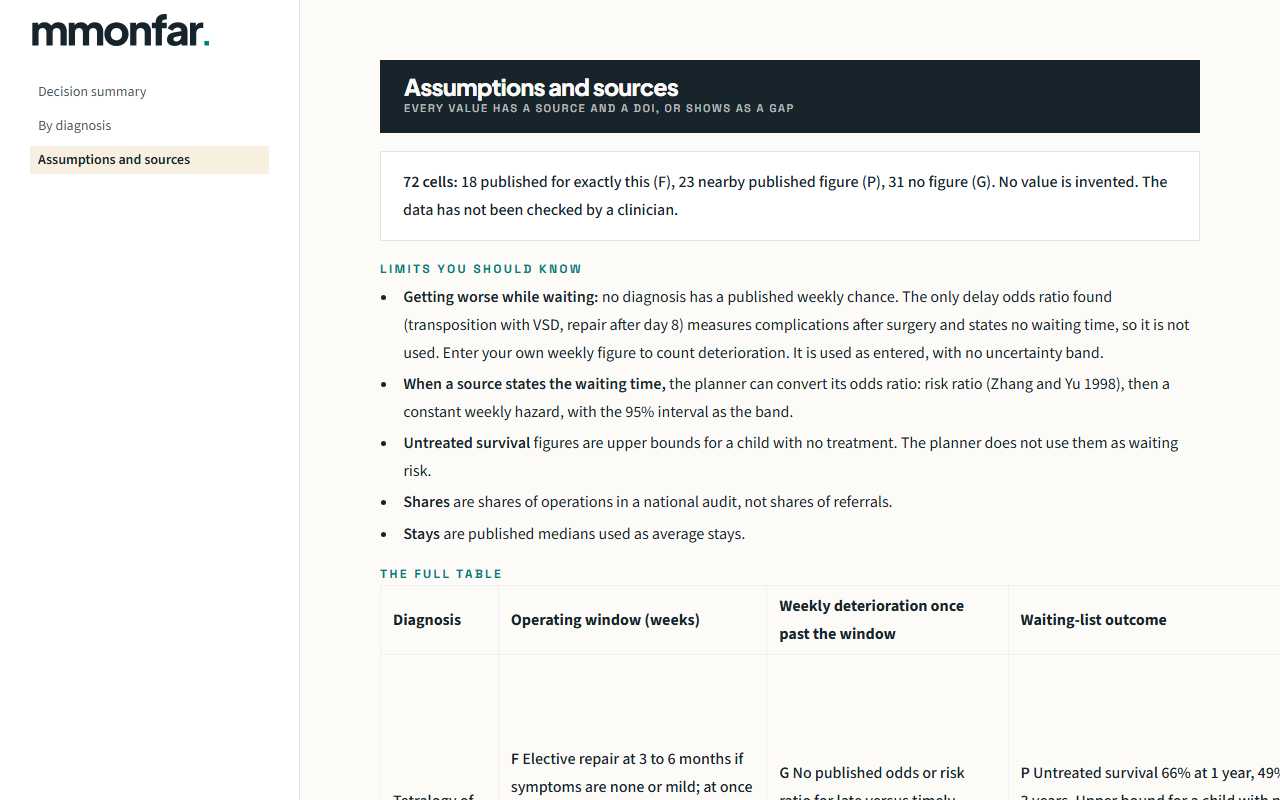
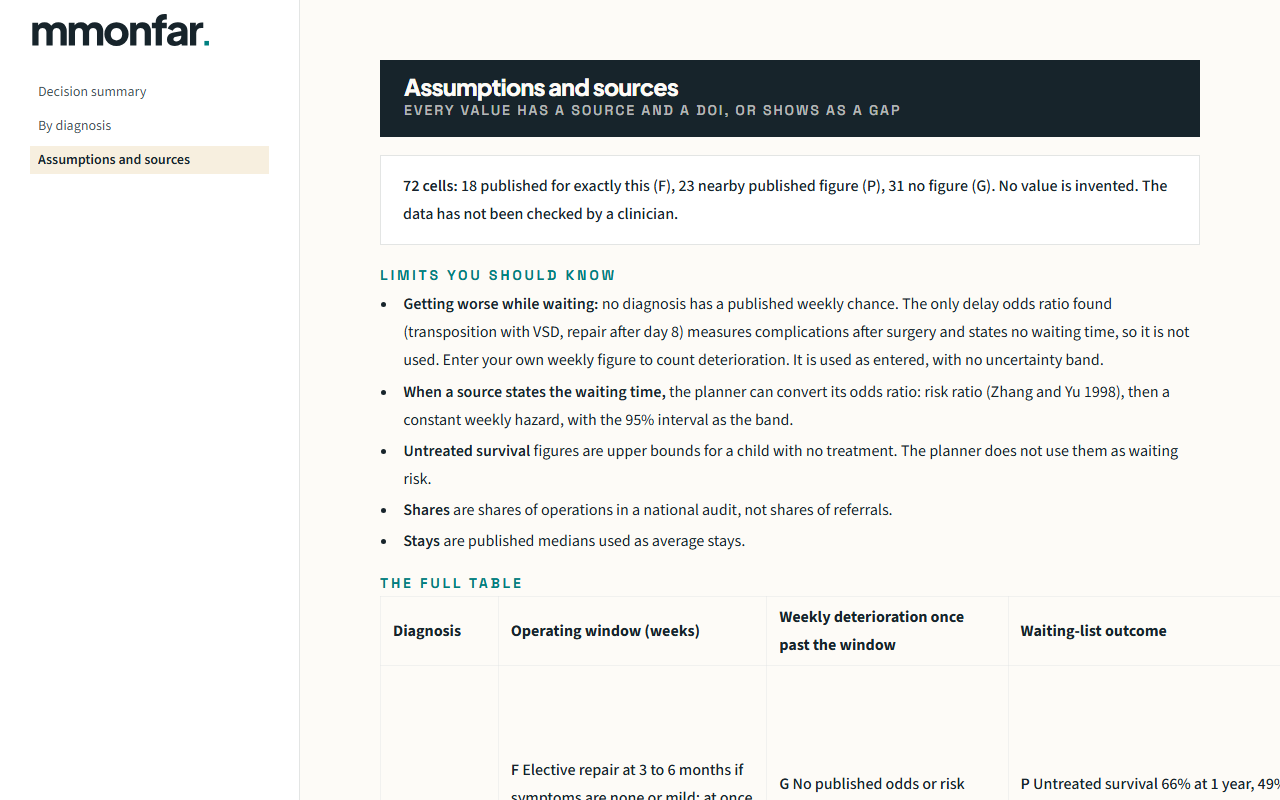
ui: honest proxy wording on first screen and README, 14 px text, staffing pointer, quiet disclaimer line, Change inputs on phone, calculating message; new stills

diff --git a/src/cardiac_capacity_planner/ui.py b/src/cardiac_capacity_planner/ui.py
@@ -25,7 +25,7 @@ CSS = """
   .ccp-head h1 { font: 800 2.4rem/1.05 var(--mm-font-display); letter-spacing: -0.04em;
                  color: #17242B; margin: 10px 0 14px; padding: 0; }
   .ccp-meta { display: flex; flex-wrap: wrap; gap: 8px 28px; }
-  .ccp-meta .mm-tick { color: var(--mm-ink-2); font-size: 12px; }
+  .ccp-meta .mm-tick { color: var(--mm-ink-2); font-size: 14px; }
   .ccp-brief { margin-top: 22px; padding: 18px 22px; background: #FFFFFF;
                border: 1px solid #E3E5E4; border-left: 3px solid var(--ccp-state); }
   .ccp-brief .directive { font-size: 1.25rem; font-weight: 700; color: #17242B;
@@ -44,7 +44,7 @@ CSS = """
               display: flex; flex-wrap: wrap; align-items: center; gap: 10px 28px; }
   .ccp-band h1 { font: 800 1.45rem/1.15 var(--mm-font-display); letter-spacing: -0.03em;
                  color: #FDFBF7; margin: 0; padding: 0; }
-  .ccp-band .sub { font: 500 11px var(--mm-font-label); letter-spacing: 0.14em;
+  .ccp-band .sub { font: 500 14px var(--mm-font-label); letter-spacing: 0.14em;
                    text-transform: uppercase; color: rgba(253,251,247,0.70); }
   .ccp-do { background: #FFFFFF; border: 1px solid #E3E5E4; border-left: 4px solid #008080;
             padding: 20px 24px; margin-bottom: 18px; }
@@ -57,12 +57,12 @@ CSS = """
   .ccp-kpi:last-child { border-right: 0; }
   .ccp-kpi .n { font: 800 1.9rem/1.1 var(--mm-font-display); letter-spacing: -0.03em;
                 color: #17242B; }
-  .ccp-kpi .t { font: 500 10px var(--mm-font-label); letter-spacing: 0.14em;
+  .ccp-kpi .t { font: 500 14px var(--mm-font-label); letter-spacing: 0.14em;
                 text-transform: uppercase; color: #008080; margin-top: 4px; }
-  .ccp-kpi .c { font-size: 12.5px; color: #6E7B80; margin-top: 4px; line-height: 1.35; }
+  .ccp-kpi .c { font-size: 14px; color: #5B6B73; margin-top: 4px; line-height: 1.35; }
   .ccp-table { width: 100%; border-collapse: collapse; background: #FFFFFF;
-               border: 1px solid #E3E5E4; font-size: 13.5px; margin-bottom: 8px; }
-  .ccp-table th { text-align: left; font: 500 10px var(--mm-font-label); letter-spacing: 0.12em;
+               border: 1px solid #E3E5E4; font-size: 14px; margin-bottom: 8px; }
+  .ccp-table th { text-align: left; font: 500 14px var(--mm-font-label); letter-spacing: 0.12em;
                   text-transform: uppercase; color: #008080; padding: 10px 12px;
                   border-bottom: 1px solid #E3E5E4; vertical-align: bottom; }
   .ccp-table td { padding: 10px 12px; border-bottom: 1px solid #E3E5E4; vertical-align: top;
@@ -71,16 +71,24 @@ CSS = """
   .ccp-table td.num { white-space: nowrap; }
   .ccp-meaning { color: #17242B; font-size: 14px; line-height: 1.45; margin: 2px 0 22px;
                  padding-left: 12px; border-left: 2px solid #008080; }
-  .ccp-meaning b { font: 500 10px var(--mm-font-label); letter-spacing: 0.14em;
+  .ccp-meaning b { font: 500 14px var(--mm-font-label); letter-spacing: 0.14em;
                    text-transform: uppercase; color: #008080; margin-right: 6px; }
   .ccp-gaps { background: #FFFFFF; border: 1px solid #E3E5E4; padding: 16px 22px;
               margin-bottom: 18px; }
   .ccp-gaps li { margin: 6px 0; font-size: 14px; line-height: 1.45; }
+  .mm-label-sm, .mm-tick, [data-testid="stCaptionContainer"] { font-size: 14px !important; }
+  .ccp-quiet { color: #5B6B73; font-size: 14px; margin: -8px 0 12px; }
+  @media (max-width: 700px) {
+    [data-testid="stExpandSidebarButton"] { width: auto !important; padding: 4px 12px !important;
+        border: 1px solid #17242B !important; border-radius: 4px; background: #FFFFFF !important; }
+    [data-testid="stExpandSidebarButton"]::after { content: "Change inputs"; font-size: 14px;
+        font-weight: 700; color: #17242B; margin-left: 8px; }
+  }
   @media (max-width: 640px) {
     .ccp-band { padding: 8px 12px; margin-bottom: 8px; gap: 2px 10px; }
     .ccp-band .sub { display: none; }
     .ccp-band h1 { font-size: 0.95rem; }
-    .ccp-band .stats { font-size: 12px; margin-top: 2px; }
+    .ccp-band .stats { font-size: 14px; margin-top: 2px; }
     .ccp-do { padding: 12px 14px; margin-bottom: 10px; }
     .ccp-do .because { font-size: 14px; line-height: 1.4; }
     .ccp-gaps { padding: 10px 14px; margin-bottom: 8px; font-size: 14px; }
@@ -98,7 +106,7 @@ CSS = """
     .ccp-table thead { display: none; }
     .ccp-table tr { border-bottom: 2px solid #17242B; padding: 6px 0; }
     .ccp-table td { border: 0; padding: 4px 12px; white-space: normal !important; }
-    .ccp-table td::before { content: attr(data-label); display: block; font: 500 10px var(--mm-font-label);
+    .ccp-table td::before { content: attr(data-label); display: block; font: 500 14px var(--mm-font-label);
                             letter-spacing: 0.12em; text-transform: uppercase; color: #008080; }
     .ccp-head h1 { font-size: 1.6rem; }
   }

diff --git a/src/cardiac_capacity_planner/views/summary.py b/src/cardiac_capacity_planner/views/summary.py
@@ -44,7 +44,7 @@ base = cp.PolicyParams(
 )
 
 
-@st.cache_data(show_spinner="Simulating 60 possible years for each option…")
+@st.cache_data(show_spinner="Calculating, about 1 minute: simulating 60 possible years for each option…")
 def compare(
     base: cp.PolicyParams, step: int, ss: int, sb: int
 ) -> tuple[list[scenarios.Outcome], dict[str, tuple[list[int], ...]]]:
@@ -73,6 +73,11 @@ ui.band(
     f"{now.list_start:.0f} → {now.list_end:.0f}, {now.past_window:.0f} past their window",
 )
 
+st.markdown(
+    '<div class="ccp-quiet">Not a medical device. Synthetic data until you enter your own figures.</div>',
+    unsafe_allow_html=True,
+)
+
 has_det = any(g.delay is not None for g in mix.casemix.groups)  # only from "your figures"
 
 # --- What we need to do ------------------------------------------------------------------
@@ -98,7 +103,7 @@ else:
     if trade:
         because += f"<b>Trade-off:</b> {trade} "
     if pick.staffing_ok and staffed_sessions <= 0 and staffed_beds <= 0:
-        because += "Staffing is not set. Enter limits in Your service today."
+        because += "Staffing is not set. Open the sidebar section \"Staffing limits\" and enter your limits."
     elif pick.staffing_ok:
         because += "Within the staffing limits you entered."
     else:
@@ -119,7 +124,7 @@ n_left = len(mix.excluded)
 st.markdown(
     f'<div class="ccp-gaps"><b>Left out of this recommendation:</b> {n_left} of {len(diagnoses.DIAGNOSES)} '
     f"diagnoses ({escape('; '.join(reasons)) if reasons else 'none'}). "
-    f"<b>{n_unpub}</b> inputs used here are not from published data (proxies).</div>",
+    f"<b>{n_unpub}</b> inputs used here are proxies: a published figure for a neighbouring quantity, with source and mismatch shown on the By diagnosis page.</div>",
     unsafe_allow_html=True,
 )
 left_out_md = (

diff --git a/tests/app/test_diagnosis_pages.py b/tests/app/test_diagnosis_pages.py
@@ -48,7 +48,7 @@ def test_summary_names_diagnoses_and_states_what_is_left_out(summary: AppTest) -
     assert "Complete AVSD" in html
     assert "If we do nothing, by diagnosis" in html
     assert "Tetralogy of Fallot" in html
-    assert "inputs used here are not from published data" in html
+    assert "inputs used here are proxies" in html
 
 
 def test_only_service_size_and_staffing_are_free_inputs_on_the_summary(summary: AppTest) -> None:

diff --git a/README.md b/README.md
@@ -15,11 +15,11 @@ The planner works by **diagnosis**. Open the app and the first screen answers fo
 3. **What does each lever do?** Extra theatre sessions, extra CICU beds, or both, side by side.
 4. **What does staffing allow?** Enter how many sessions and beds your staff can cover. Any option that needs more is marked.
 
-Two more pages: **By diagnosis** (every value with its status, and a place to enter your own figures) and **Assumptions and sources** (the full table, a source and DOI on every value).
+Two more pages: **By diagnosis** (every value with its status, and a place to enter your own figures) and **Assumptions and sources** (the full table; every published value shows its source and DOI).
 
 ## Published evidence first, your figures if you wish
 
-Every diagnosis figure comes from the published literature, with a DOI. Where none exists the cell shows **enter your figures** and that diagnosis is **left out of the default recommendation**; nothing is invented. Only the size of your service (sessions, beds, waiting list, referrals a week) is entered by you. Urgency is never entered: the planner derives it from each diagnosis's published operating window.
+Every published value shows its source and DOI. Some are proxies: a published figure for a neighbouring quantity, with the mismatch stated (the first screen counts them). Where no figure exists the cell shows **enter your figures** and that diagnosis is **left out of the default recommendation**; nothing is invented. Only the size of your service (sessions, beds, waiting list, referrals a week) is entered by you. Urgency is never entered: the planner derives it from each diagnosis's published operating window.
 
 ![Decision summary at desktop width](docs/screenshots/v2.2/after-1280-first-screen.png)
 
